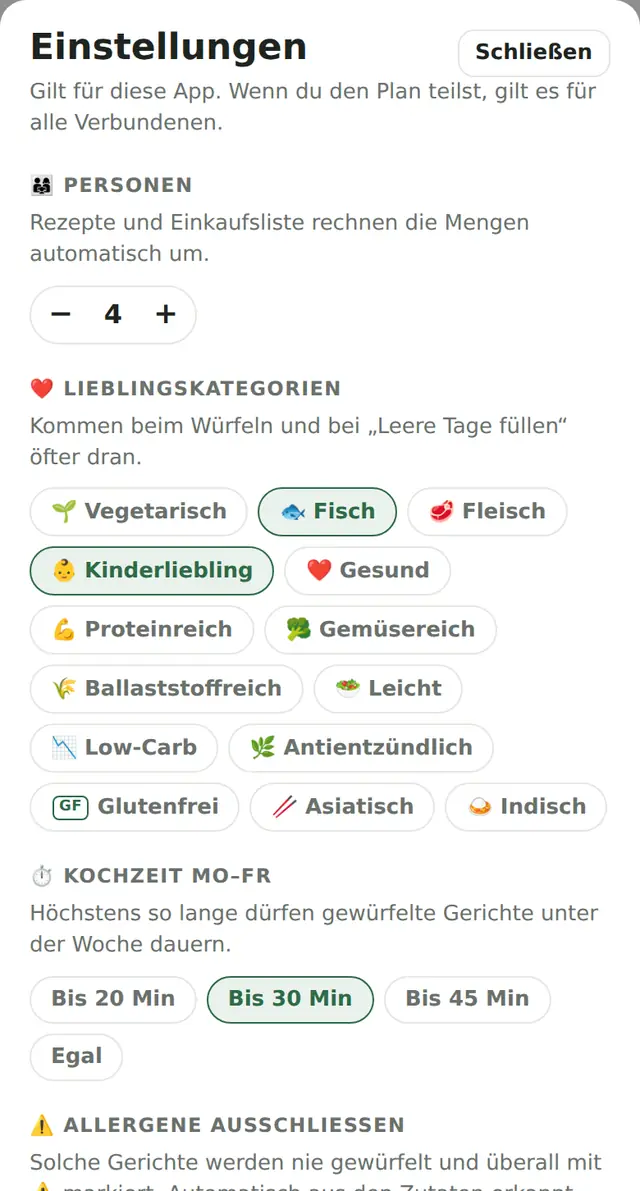
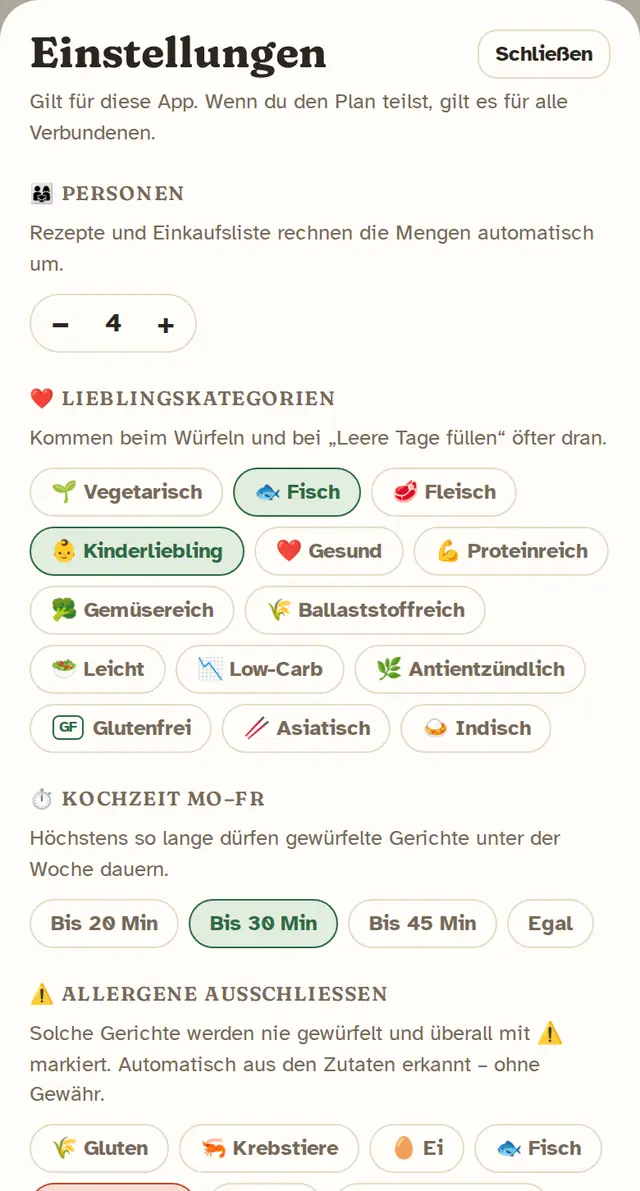
Warmes Design live: Fraunces, Creme-Töne, Navigation unten, Tageskarten; Einsendeseite angepasst; neue Anleitungs-Screenshots
Claude-Session: https://claude.ai/code/session_017thavBb7HdvyaUMYgckwQS

diff --git a/einsenden.html b/einsenden.html
@@ -3,39 +3,41 @@
 <head>
 <meta charset="utf-8">
 <meta name="viewport" content="width=device-width, initial-scale=1, viewport-fit=cover">
-<meta name="theme-color" content="#FAFAF7" media="(prefers-color-scheme: light)">
-<meta name="theme-color" content="#111412" media="(prefers-color-scheme: dark)">
+<meta name="theme-color" content="#F7F1E6" media="(prefers-color-scheme: light)">
+<meta name="theme-color" content="#1A1612" media="(prefers-color-scheme: dark)">
 <meta name="robots" content="noindex">
 <title>Rezept einsenden</title>
 <link rel="icon" href="icon.png">
 <link rel="apple-touch-icon" href="icon.png">
-<link rel="preconnect" href="https://fonts.googleapis.com">
-<link rel="stylesheet" href="https://fonts.googleapis.com/css2?family=Bricolage+Grotesque:opsz,wght@12..96,700&family=Atkinson+Hyperlegible:wght@400;700&display=swap">
 <style>
+@font-face{font-family:"Fraunces";src:url("fonts/fraunces.woff2") format("woff2");font-weight:100 900;font-display:swap}
+@font-face{font-family:"Atkinson Hyperlegible";src:url("fonts/atkinson-400.woff2") format("woff2");font-weight:400;font-display:swap}
+@font-face{font-family:"Atkinson Hyperlegible";src:url("fonts/atkinson-700.woff2") format("woff2");font-weight:700;font-display:swap}
 :root{
-  --ground:#FAFAF7; --surface:#FFFFFF; --sunk:#F1F2EE; --ink:#1E2420; --muted:#6A716C; --line:#E4E7E2;
-  --basil:#2F6B47; --basil-ink:#FFFFFF; --basil-soft:#EAF2EC; --tomato:#A34A38;
-  --display:"Bricolage Grotesque","Avenir Next","Segoe UI",system-ui,sans-serif;
+  --ground:#F7F1E6; --surface:#FFFDF8; --sunk:#EFE6D6; --ink:#2B2620; --muted:#77695A; --line:#E6DAC6;
+  --basil:#2F6A45; --basil-ink:#FFFFFF; --basil-soft:#E1EDDD; --tomato:#C0492F; --mustard-soft:#FBEBC4;
+  --display:"Fraunces",Georgia,serif;
   --body:"Atkinson Hyperlegible","Segoe UI",system-ui,-apple-system,sans-serif;
 }
 @media (prefers-color-scheme: dark){
   :root:not([data-theme="light"]){
     color-scheme:dark;
-    --ground:#111412; --surface:#171B18; --sunk:#1F2420; --ink:#E7EBE8; --muted:#98A19B; --line:#2A302C;
-    --basil:#86C79D; --basil-ink:#0F1A12; --basil-soft:#1C2A21; --tomato:#E0907C;
+    --ground:#1A1612; --surface:#241F19; --sunk:#2E2720; --ink:#F1E8DA; --muted:#B3A28C; --line:#3A3128;
+    --basil:#8FCB9F; --basil-ink:#13200F; --basil-soft:#27362A; --tomato:#F0927B; --mustard-soft:#3D321C;
   }
 }
 :root[data-theme="dark"]{
   color-scheme:dark;
-  --ground:#111412; --surface:#171B18; --sunk:#1F2420; --ink:#E7EBE8; --muted:#98A19B; --line:#2A302C;
-  --basil:#86C79D; --basil-ink:#0F1A12; --basil-soft:#1C2A21; --tomato:#E0907C;
+  --ground:#1A1612; --surface:#241F19; --sunk:#2E2720; --ink:#F1E8DA; --muted:#B3A28C; --line:#3A3128;
+  --basil:#8FCB9F; --basil-ink:#13200F; --basil-soft:#27362A; --tomato:#F0927B; --mustard-soft:#3D321C;
 }
 *{box-sizing:border-box}
 html{-webkit-text-size-adjust:100%}
 body{margin:0;background:var(--ground);color:var(--ink);font:16px/1.5 var(--body)}
 .wrap{max-width:520px;margin:0 auto;padding:calc(28px + env(safe-area-inset-top,0px)) 16px calc(48px + env(safe-area-inset-bottom,0px))}
 h1{font:700 clamp(26px,7vw,32px)/1.1 var(--display);letter-spacing:-.02em;margin:0 0 8px}
-h1 span{color:var(--basil)}
+h1 span{color:inherit;background:linear-gradient(transparent 58%, var(--mustard-soft) 58%, var(--mustard-soft) 92%, transparent 92%);padding:0 .08em}
+h1,.done h2{font-variation-settings:"SOFT" 100}
 .sub{color:var(--muted);font-size:15px;margin:0 0 22px}
 form{display:flex;flex-direction:column;gap:16px}
 label{display:flex;flex-direction:column;gap:6px;font-weight:700;font-size:14px}
